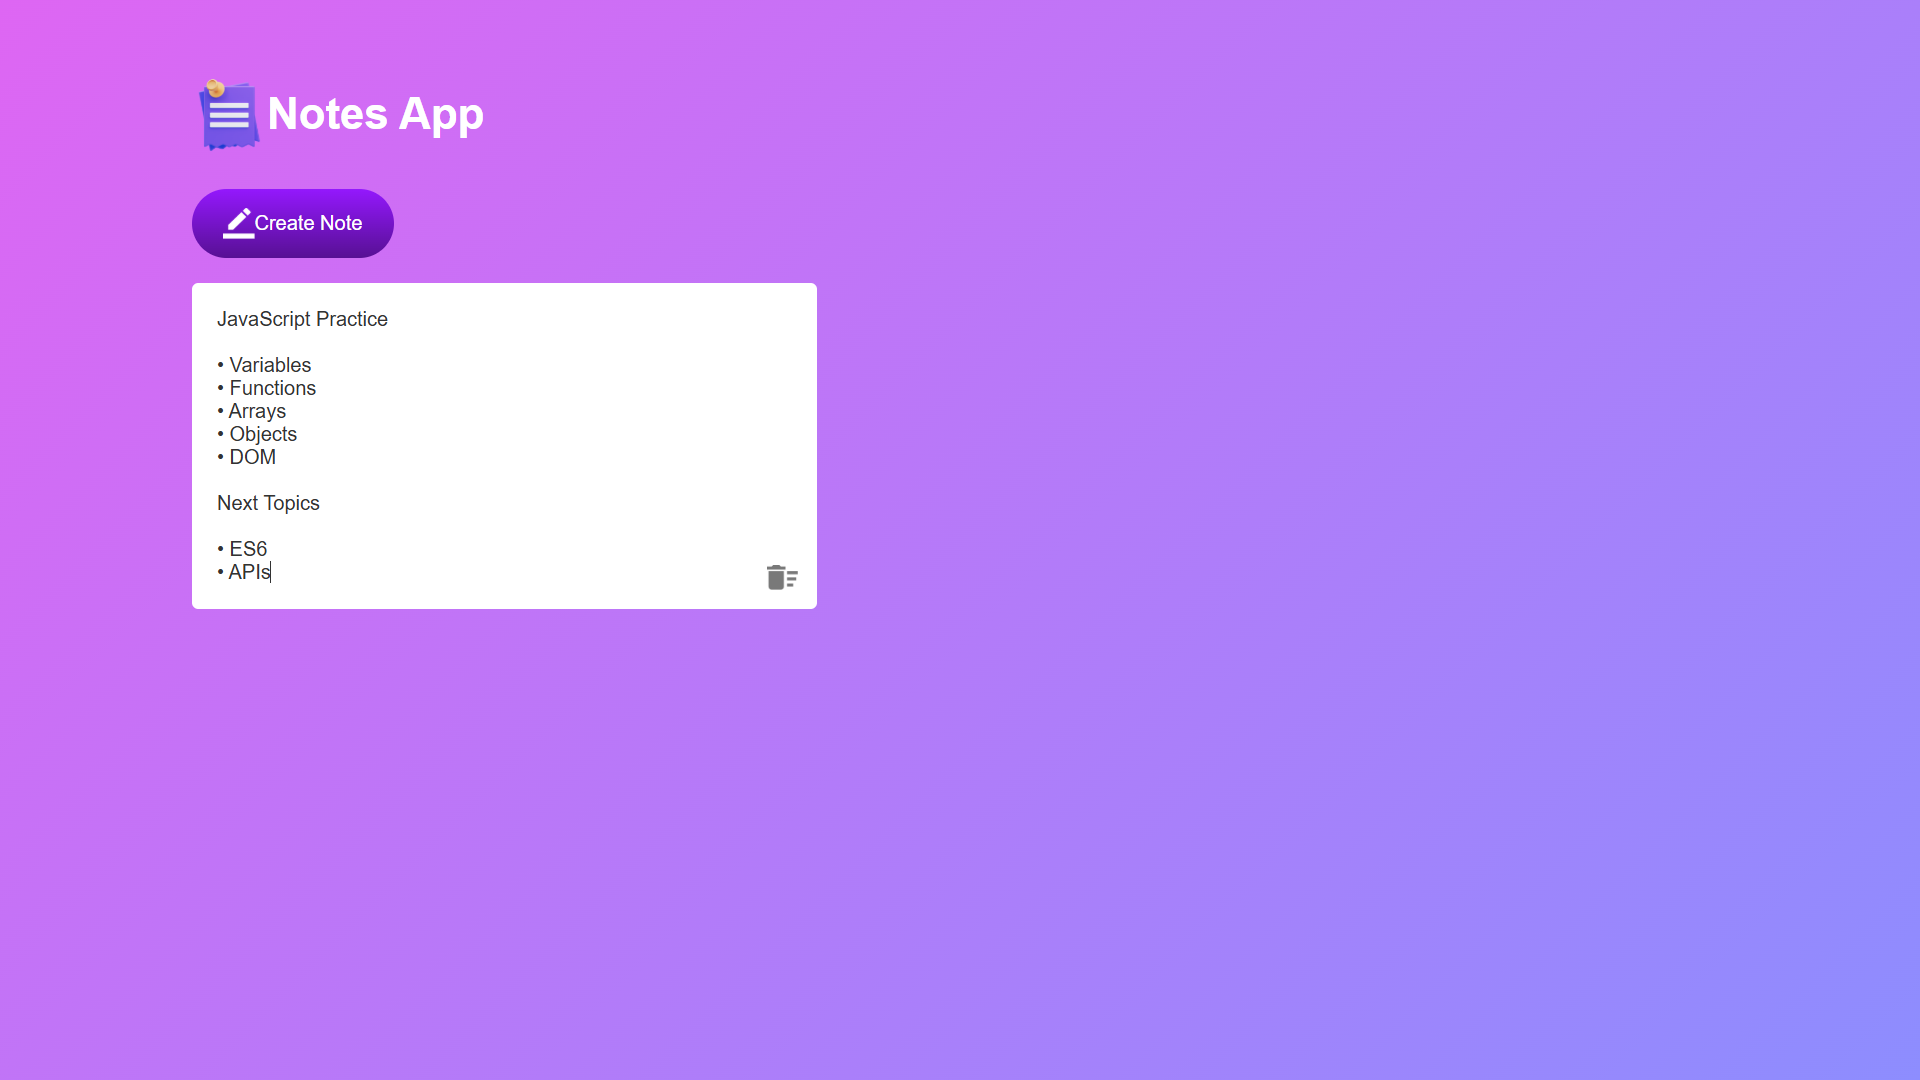
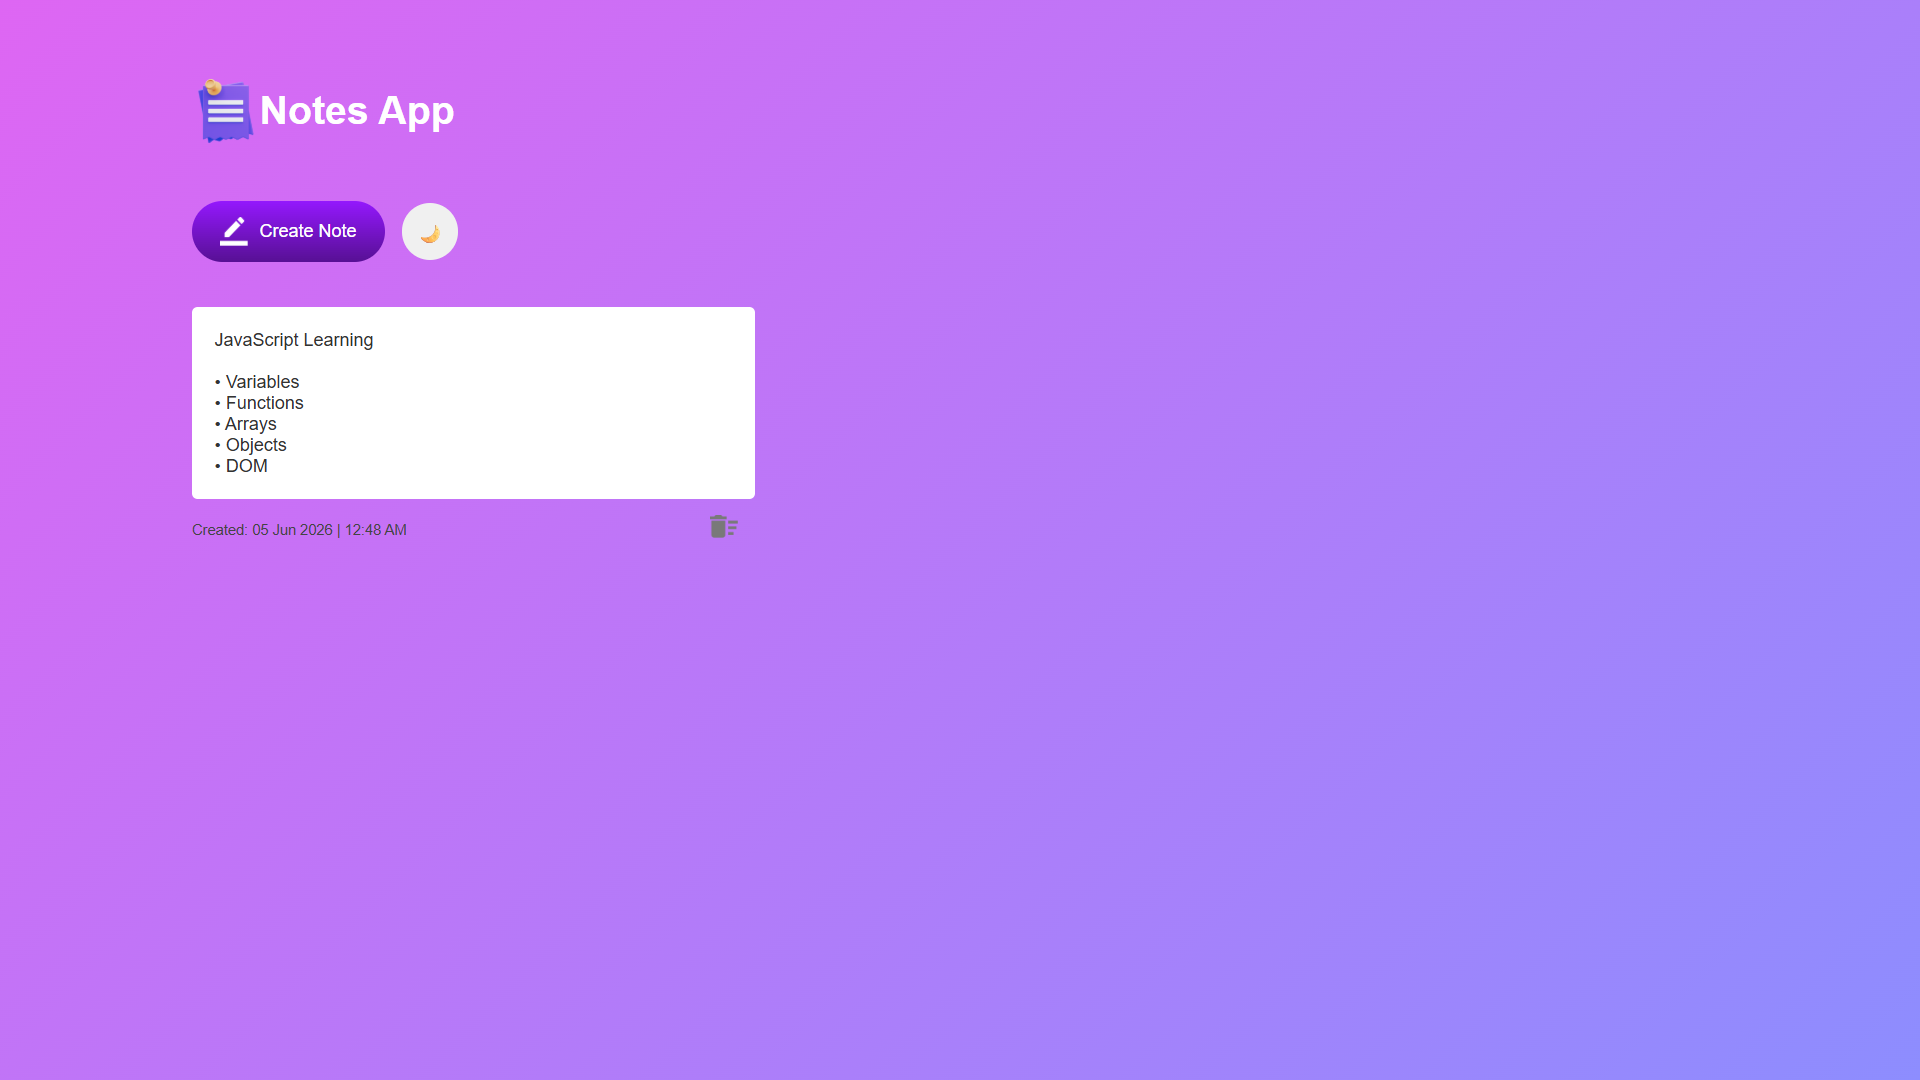
Complete Notes App with dark theme and timestamps

Changed region(s): [[0.0938, 0.0611, 0.4375, 0.5806]]

diff --git a/style.css b/style.css
@@ -23,9 +23,16 @@
 }
 .container button img{
     width: 25px;
-    margin: right;
+    margin-right:10px;
 }
-.container button{
+.btns{
+    display: flex;
+    align-items: center;
+    gap:15px;
+    flex-wrap: wrap;
+    margin: 20px 0;
+}
+.btns #btn {
     display: flex;
     align-items: center;
     color: #fff;
@@ -35,8 +42,17 @@
     border:0;
     border-radius: 40px;
     padding: 15px 25px;
-    margin: 30px 0 20px;
+    margin: 30px 0px 20px;
     cursor: pointer;
+}
+.btns #thm{
+    height:50px;
+    width:50px;
+    border-radius: 50%;
+    border: none;
+    cursor: pointer;
+    font-size: 18px;
+    margin-top: 10px;
 }
 .note{
     position: relative;
@@ -56,7 +72,54 @@
 .note img{
     width:25px;
     position: absolute;
-    bottom: 15px;
     right:15px;
+    bottom: 0px;
     cursor: pointer;
+    transition: 0.3s;
+}
+.note img:hover{
+    transform: scale(1.15);
+    opacity: 0.8;
+}
+.date{
+    font-size:13px;
+    font-weight: 500;
+    color:#444;
+    margin-bottom:10px;
+    padding-right:40px;
+}
+
+.dark-theme{
+    background:linear-gradient(135deg, #1a1a2e, #16213e);
+}
+
+.dark-theme h1{
+    color:#ffffff;
+}
+
+.dark-theme #btn{
+    background: linear-gradient(135deg, #6d28d9, #4c1d95);
+    color:#ffffff;
+}
+
+.dark-theme #thm{
+    background:#444;
+    color: #fff;
+}
+.dark-theme #thm:hover{
+    background: #555;
+}
+.dark-theme .input-box{
+    background: #2d2d2d;
+    color: #ffffff;
+    border: 1px solid #444;
+}
+.dark-theme .note img{
+    filter: invert(1);
+}
+.dark-theme .date{
+    font-size:13px;
+    color:#888;
+    margin-bottom:10px;
+    padding-right:40px;
 }

diff --git a/script.js b/script.js
@@ -1,5 +1,7 @@
 const notesContainer=document.querySelector(".notes-container");
-const createBtn=document.querySelector(".btn");
+const createBtn=document.querySelector("#btn");
+const thmBtn=document.getElementById("thm");
+const con = document.querySelector(".container");
 let notes=document.querySelectorAll(".input-box");
 
 function showNotes(){
@@ -16,17 +18,42 @@ createBtn.addEventListener("click", ()=>{
 
     let note=document.createElement("div");
     let inputBox=document.createElement("p");
+    let dateElement=document.createElement("div");
     let img=document.createElement("img");
+
     note.className="note";
     inputBox.className="input-box";
     inputBox.setAttribute("contenteditable", "true");
+
+    dateElement.className="date";
+    dateElement.innerText=getCurrentDate();
+
     img.src="Images/delete.png";
+
     notesContainer.appendChild(note);
     note.appendChild(inputBox);
+    note.appendChild(dateElement);
     note.appendChild(img);
 });
 
+function getCurrentDate(){
+    let now=new Date();
+
+    let date=now.toLocaleDateString("en-GB",{
+        day:"2-digit",
+        month:"short",
+        year:"numeric"
+    });
+
+    let time=now.toLocaleTimeString("en-US",{
+        hour:"2-digit",
+        minute:"2-digit"
+    });
+    return `Created: ${date} | ${time}`;
+}
+
 notesContainer.addEventListener("click", function(e){
+
     if(e.target.tagName==="IMG"){
         e.target.parentElement.remove();
         updateStorage();
@@ -47,3 +74,22 @@ document.addEventListener("keydown", event =>{
         event.preventDefault();
     }
 }); 
+
+
+thmBtn.addEventListener("click", function(){
+    con.classList.toggle("dark-theme");
+
+    if(con.classList.contains("dark-theme")){
+        thmBtn.innerHTML="🔆";
+        localStorage.setItem("theme","dark");
+    }
+    else{
+        thmBtn.innerHTML="🌙";
+        localStorage.setItem("theme","light")
+    }
+});
+
+if(localStorage.getItem("theme")==="dark"){
+    con.classList.add("dark-theme");
+    thmBtn.innerHTML="🔆";
+}

diff --git a/index.html b/index.html
@@ -9,7 +9,10 @@
 <body>
     <div class="container">
         <h1><img src="Images/notes.png">Notes App</h1>
-        <button class="btn"><img src="Images/edit.png">Create Note</button>
+        <div class="btns">
+            <button id="btn"><img src="Images/edit.png">Create Note</button>
+            <button id="thm">🌙</button>
+        </div>
         <div class="notes-container">
 <!--            <p contenteditable="true" class="input-box">-->
 <!--                <img src="Images/delete.png">-->